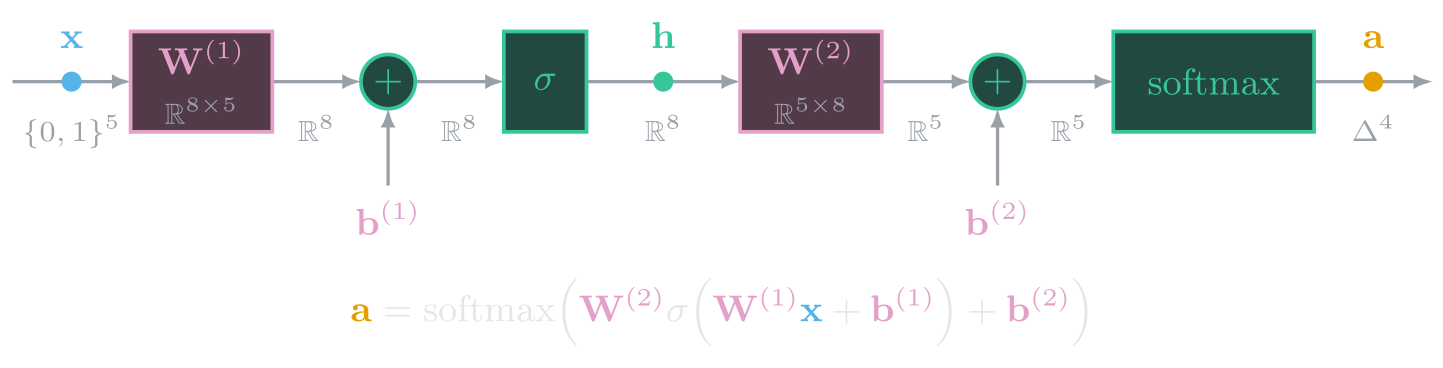
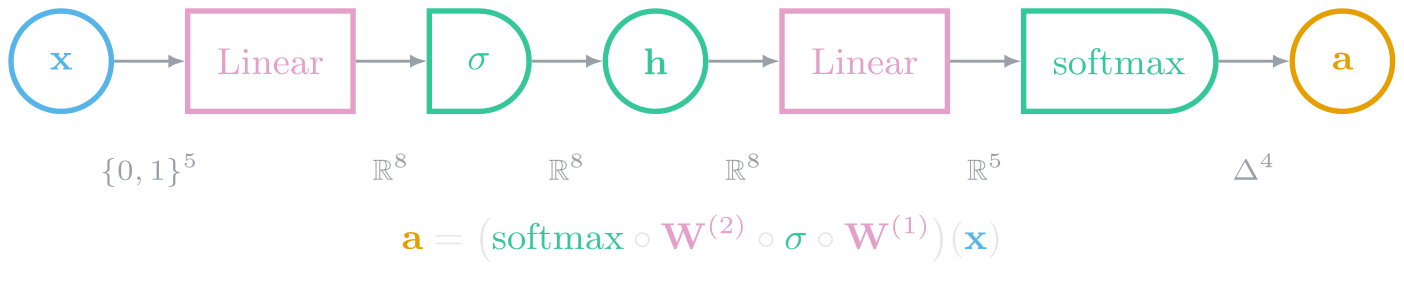
sitp: initial glue of ffn tikz figures with old exposition

diff --git a/sitp/theme/css/custom.css b/sitp/theme/css/custom.css
@@ -1085,7 +1085,19 @@ html.ayu img.neuron {
 html.coal img.ffn,
 html.navy img.ffn,
 html.ayu img.ffn {
-  content: url("../../assets/ffn.png");
+  content: url("../../assets/ffn_dark.png");
+}
+
+html.coal img.ffn_circuit,
+html.navy img.ffn_circuit,
+html.ayu img.ffn_circuit {
+  content: url("../../assets/ffn_circuit_dark.png");
+}
+
+html.coal img.ffn_matmul,
+html.navy img.ffn_matmul,
+html.ayu img.ffn_matmul {
+  content: url("../../assets/ffn_matmul_dark.png");
 }
 
 html.coal img.neuron_linreg,

diff --git a/sitp/src/2.md b/sitp/src/2.md
@@ -152,34 +152,6 @@ Let's go.
 
 <small>[$\hookleftarrow$ Table of Contents (§3.2 Learning Representations with FFNs)](#12-next-token-prediction-is-classification-and-compression)</small>
 
-<div class="full-bleed">
-
-<div class="dual">
-
-<img class="neuron" src="./assets/neuron.png" alt="">
-
-<img class="ffn" src="./assets/ffn.png" alt="">
-
-</div>
-</div>
-
-
-<div class="full-bleed">
-<iframe height="500px" loading="lazy" src="https://www.youtube.com/embed/aircAruvnKk?si=fx6nMsSz_2ehG9DP"  title="YouTube video player" frameborder="0" allow="accelerometer; autoplay; clipboard-write; encrypted-media; gyroscope; picture-in-picture; web-share" referrerpolicy="strict-origin-when-cross-origin" allowfullscreen></iframe>
-</div>
-
-[But what is a neural network? | Deep learning chapter 1 (3Blue1Brown 2017)](https://youtu.be/IHZwWFHWa-w?si=0Rn6f86aVCGYZ5zD)
-
-<!-- With a solid understanding of how statistical learning recovers stochastic maps of data in higher dimensional coordinate spaces,
-you are now ready to start training your first deep neural networks. The subdiscipline of training deep neural nets follows the same
-practice of given some dataset $d=\{(x^{(i)},y^{(i)})\}_{i=1}^n$, declaring your model's forward pass $\hat{y}=f(\mathbf{x};\theta)$, it's scoring function $\ell(y,\hat{y}, \theta)$
-and resulting backward pass $\ell'(y,\hat{y},\theta)$, and iteratively optimizing such score with gradient descent,
-where $\theta^{t+1} := \theta^{t} - \eta\nabla\mathscr{L}(d, \theta)$.
-The only difference as we'll shortly see soon is that the inductive bias used to model the function $f$ includes *non-linearities* $\varphi$ with many layers of *composition*.
-This second part of the book focuses on the unsupervised/self-supervised
-task of *sequence learning* building up to the transformer architecture behind GPT2,
-but let's train our first nets using the same tasks from part one to ensure we understand the core foundation of deep neural nets. -->
-
 Recall that the task of house price prediction and sentiment classification which can be modelled
 by functions of the form $f\colon\reals^d \to \reals$ and $f\colon\reals^d \to [0,1]$ respectively.
 The simplest inductive bias was made, in a which a linear relationship was assumed to hold between the input and output spaces,
@@ -206,6 +178,27 @@ where $l$ is the number of compositional *layers*, and each intermediate functio
 Each hidden layer successively and gradually lifts the complexity and abstraction of the data's representation<span class="sidenote-number"></span><span class="sidenote">*Chris Olah, cofounder of Anthropic and the lead of it's interpretability research wrote an excellent article on how software 2.0's representation learning loosely correspond to software 1.0's types in [Neural Networks, Types, and Functional Programming](https://colah.github.io/posts/2015-09-NN-Types-FP/)*</span>.
 
 **Together, these two aspects of learning *non-linear*, *representations* form the essence of *deep learning*.**
+
+<div class="full-bleed">
+
+<div class="dual">
+
+<img class="neuron" src="./assets/neuron.png" alt="">
+
+<img class="ffn" src="./assets/ffn.png" alt="">
+
+</div>
+</div>
+
+<img class="ffn_circuit" src="./assets/ffn_circuit.png" alt="">
+
+<img class="ffn_matmul" src="./assets/ffn_matmul.png" alt="">
+
+<div class="full-bleed">
+<iframe height="500px" loading="lazy" src="https://www.youtube.com/embed/aircAruvnKk?si=fx6nMsSz_2ehG9DP"  title="YouTube video player" frameborder="0" allow="accelerometer; autoplay; clipboard-write; encrypted-media; gyroscope; picture-in-picture; web-share" referrerpolicy="strict-origin-when-cross-origin" allowfullscreen></iframe>
+</div>
+
+[But what is a neural network? | Deep learning chapter 1 (3Blue1Brown 2017)](https://youtu.be/IHZwWFHWa-w?si=0Rn6f86aVCGYZ5zD)
 
 Let's now turn out attention to the function bodies of these $h^{[i]}$'s with a deep neural netork of $1$ hidden layer,
 carrying out the task of price regression and sentiment classification so that $f$ has the form $f\colon\reals^d\to\reals$.
@@ -293,6 +286,16 @@ class MLP(nn.Module):
 <div class="full-bleed">
 <iframe height="750px" loading="lazy" src="https://www.youtube.com/embed/qx7hirqgfuU?si=EAPTizMLo2wDeesv" title="YouTube video player" frameborder="0" allow="accelerometer; autoplay; clipboard-write; encrypted-media; gyroscope; picture-in-picture; web-share" referrerpolicy="strict-origin-when-cross-origin" allowfullscreen></iframe>
 </div>
+
+<!-- With a solid understanding of how statistical learning recovers stochastic maps of data in higher dimensional coordinate spaces,
+you are now ready to start training your first deep neural networks. The subdiscipline of training deep neural nets follows the same
+practice of given some dataset $d=\{(x^{(i)},y^{(i)})\}_{i=1}^n$, declaring your model's forward pass $\hat{y}=f(\mathbf{x};\theta)$, it's scoring function $\ell(y,\hat{y}, \theta)$
+and resulting backward pass $\ell'(y,\hat{y},\theta)$, and iteratively optimizing such score with gradient descent,
+where $\theta^{t+1} := \theta^{t} - \eta\nabla\mathscr{L}(d, \theta)$.
+The only difference as we'll shortly see soon is that the inductive bias used to model the function $f$ includes *non-linearities* $\varphi$ with many layers of *composition*.
+This second part of the book focuses on the unsupervised/self-supervised
+task of *sequence learning* building up to the transformer architecture behind GPT2,
+but let's train our first nets using the same tasks from part one to ensure we understand the core foundation of deep neural nets. -->
 
 <!-- In part 1 of the book we trained generalized linear models of the form ___.
 In part 2 we modify and increase the expressivity of the function class by including non-linearities $\varphi$.
